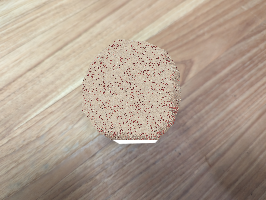
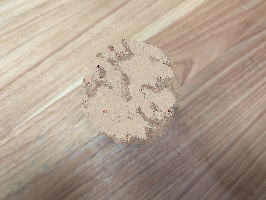
psh progress

Changed region(s): [[0.3008, 0.18, 0.6917, 0.72]]

diff --git a/patchmatch/PatchMatch.py b/patchmatch/PatchMatch.py
@@ -5,22 +5,23 @@ import os
 
 iters = 5
 
-def synthPatchMatch(img, refs, rsmax, winsize=17):
+def synthPatchMatch(img, refs, rsmax, winsize=31):
     r = winsize // 2
     padded = [np.pad(ref, ((r,r),(r,r),(0,0)), mode="symmetric") for ref in refs]
     padded.insert(0, np.pad(img, ((r,r),(r,r),(0,0)), mode="symmetric"))
     mask = padded[0][:,:,3] != 255
 
-    def indToPos(ind):
-        return [ind // h + minbx + r, ind % h + minby + r]
     def fill(i):
-        holePos = indToPos(i)
+        holePos = [i // w + minbx + r, i % w + minby + r]
+        subimg[i//w, i%w] = padded[nnf[i][0]][nnf[i][1],nnf[i][2]]
         if mask[holePos[0],holePos[1]]:
             padded[0][holePos[0],holePos[1]] = padded[nnf[i][0]][nnf[i][1],nnf[i][2]]
     def ssd(hInd, patchPos):
-        holePos = indToPos(hInd)
-        fImg = padded[0][holePos[0]:holePos[0]+r+r, holePos[1]:holePos[1]+r+r,:3]
-        sImg = padded[patchPos[0]][patchPos[1]:patchPos[1]+r+r,patchPos[2]:patchPos[2]+r+r,:3]
+        pX, pY = patchPos[1:]
+        holePos = [i//w, i%w]
+        print(holePos[1])
+        fImg = subimg[holePos[0]:holePos[0]+r+r, holePos[1]:holePos[1]+r+r,:3]
+        sImg = padded[patchPos[0]][pX:pX+r+r,pY:pY+r+r,:3]
         return np.sum((fImg-sImg)**2)
 
     holes = np.transpose(np.nonzero(img[:,:,3] != 255)) # list of transparent pixels
@@ -28,7 +29,6 @@ def synthPatchMatch(img, refs, rsmax, winsize=17):
     maxbx = np.max(holes[:,0]) + r
     minby = np.min(holes[:,1]) - r
     maxby = np.max(holes[:,1]) + r
-    print(minbx, maxbx, minby, maxby) # debug
     samples = [] # list of indices of valid sample patches
     for x in range(0,img.shape[0]):
         for y in range(0,img.shape[1]):
@@ -41,19 +41,27 @@ def synthPatchMatch(img, refs, rsmax, winsize=17):
                 samples.append((i+1, x, y))
     h = maxbx-minbx
     w = maxby-minby
+    subimg = np.zeros((h,w,4))
     n = h*w
-    print(h, w)
-    print(n)
     nnf = []
     for i in range(0,n): # randomize
         nnf.append(samples[np.random.choice(len(samples))])
-        fill(i)
     nnf = np.array(nnf)
     nnd = []
     for i in range(0,n):
         nnd.append(ssd(i, nnf[i]))
+    for i in range(0,n):
+        fill(i)
 
     def improve(hInd, patchPos):
+        iNum = patchPos[0]
+        if iNum == 0:
+            xMax, yMax = img.shape[:-1]
+        else:
+            xMax, yMax = refs[iNum-1].shape[:-1]
+        pX = min(max(patchPos[1],0),xMax-1)
+        pY = min(max(patchPos[2],0),yMax-1)
+        patchPos = [iNum, pX, pY]
         candD = ssd(hInd, patchPos)
         if nnd[hInd] > candD:
             nnd[hInd] = candD
@@ -62,25 +70,22 @@ def synthPatchMatch(img, refs, rsmax, winsize=17):
 
     for i in range(0,iters):
         if i % 2:
-            s = -1
-        else:
             s = 1
+        else:
+            s = -1
         if i != 0:
             nnf = nnf[::-1]
             nnd = nnd[::-1]
-        # propagate
         for j in range(0,n):
-            x, y = indToPos(i)
-            nInd = np.transpose(np.nonzero(np.all(holes == [x+s,y], axis=1))) #fix this
-            if nInd.size > 0:
-                nInd = nInd[0,0]
-                improve(j, (nnf[nInd,0], nnf[nInd,1]-s, nnf[nInd,2]))
+            # propagate
+            x = i // w
+            y = i % w
+            nInd = min(max(j + s, 0), n-1)
+            improve(j, (nnf[nInd,0], nnf[nInd,1]-s, nnf[nInd,2]))
 
-            nInd = np.transpose(np.nonzero(np.all(holes == [x,y+s], axis=1)))
-            if nInd.size > 0:
-                nInd = nInd[0,0]
-                improve(j, (nnf[nInd][0], nnf[nInd,1], nnf[nInd,2]-s))
-        # search
+            nInd = min(max(j + s*w, 0), n-1)
+            improve(j, (nnf[nInd][0], nnf[nInd,1], nnf[nInd,2]-s))
+            # search
             rs = rsmax
             while rs > 1:
                 xmin = max(x-rs, 0)
@@ -91,9 +96,11 @@ def synthPatchMatch(img, refs, rsmax, winsize=17):
                 yc = np.random.randint(ymin, ymax)
                 improve(j, (nnf[j,0], xc, yc))
                 rs //= 2
-            print("pixel", str(j+1) + "/" + str(n), "iter", str(i+1) + "/" + str(5))
+            print("pixel", str(j+1) + "/" + str(n), "iter", str(i+1) + "/" + str(iters))
     out = Image.fromarray(padded[0][r:-r,r:-r])
     out.save("../data/patchOut.png")
+    subimg = Image.fromArray(subimg)
+    out.save("../data/debugimg.png")
 
 if __name__ == "__main__":
     img = np.array(Image.open(sys.argv[1]))
